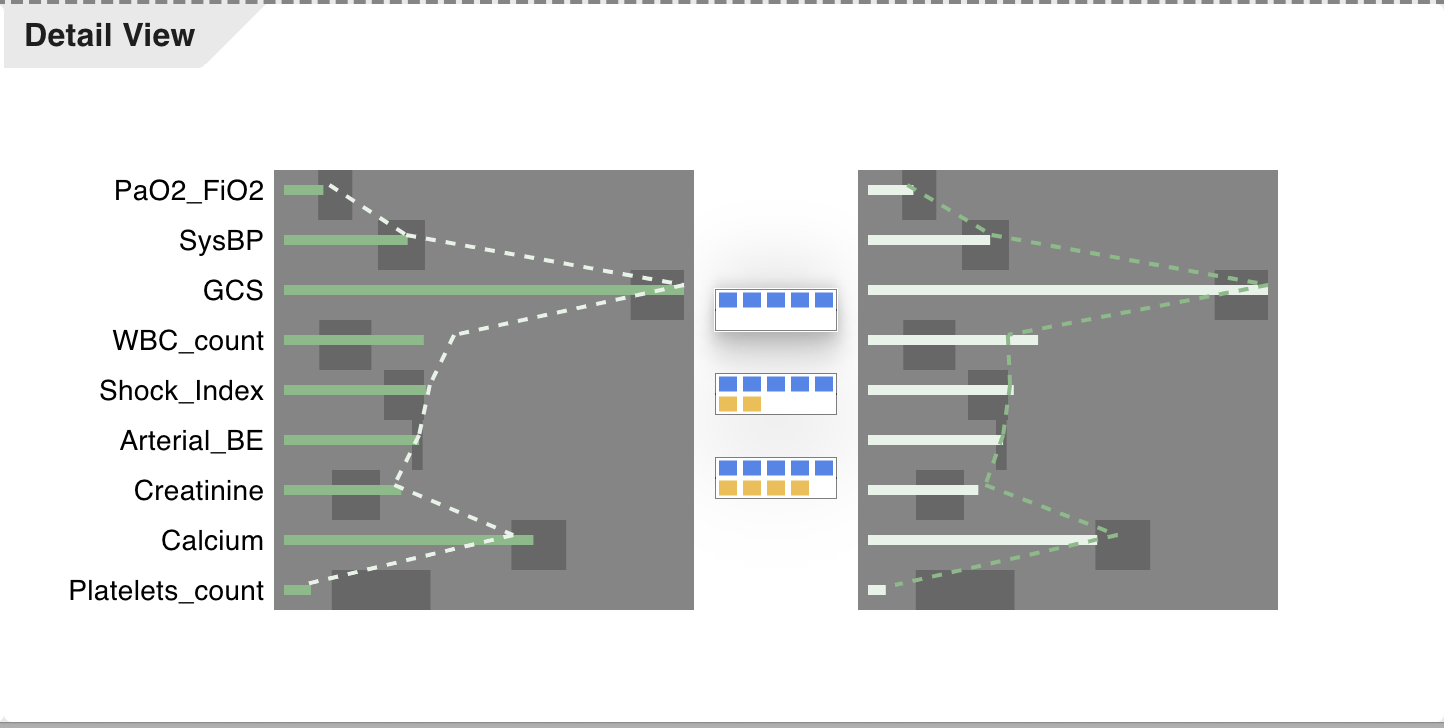
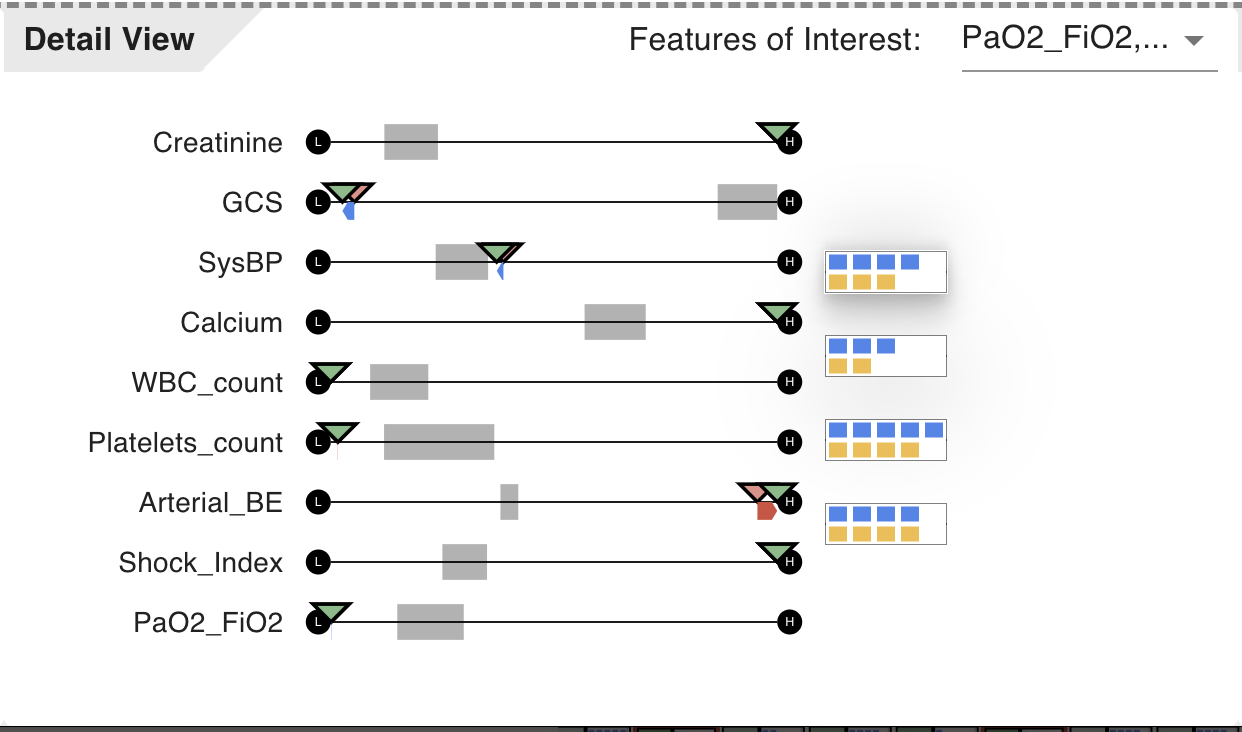
update readme

diff --git a/README.md b/README.md
@@ -46,7 +46,11 @@ Click on an action where the indices of Vasopressor and Intravenous are to show 
 
 <img width="60%" src="./assets/detailview.png"/>
 
+In the select box on the top of the view, we can select the features show below.
+
 Click on an action to show other outcomes after different treatment policy.
+
+The arrows show the cahnges of features after the action you select. 
 
 ###Sequence View
 
